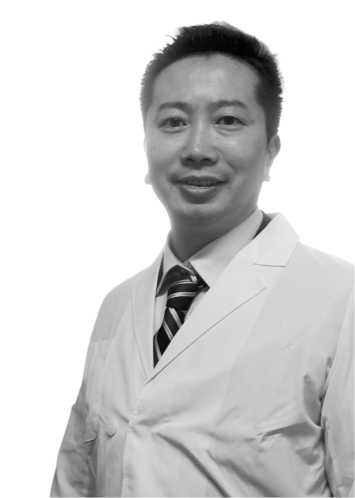
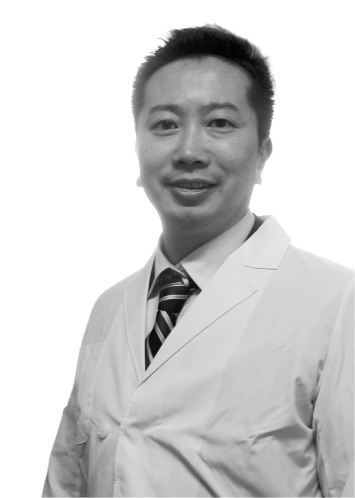
fixbug UI

diff --git a/wp-content/themes/ludoa/assets/css/wishes.css b/wp-content/themes/ludoa/assets/css/wishes.css
@@ -109,10 +109,10 @@
   background-color: var(--color-navy);
   color: var(--color-white);
   font-family: var(--font-serif);
-  font-size: 14px;
+  font-size: 23px;
   font-weight: 700;
-  width: 48px;
-  height: 48px;
+  width: 70px;
+  height: 70px;
   border-radius: 50%;
   position: absolute;
   top: 0;
@@ -128,7 +128,6 @@
 .wish-card__text {
   font-family: var(--font-sans);
   font-size: 13px;
-  font-weight: 700;
   color: var(--color-navy);
   line-height: 1.4;
   margin: 0;
@@ -393,7 +392,7 @@
   }
 
   .wishes__text p {
-    font-size: 16px;
+    font-size: 20px;
   }
 
   /* 3 Cards row on PC */
@@ -405,7 +404,7 @@
   }
 
   .wish-card {
-    padding: 36px 12px 20px;
+    padding: 50px 12px 20px;
   }
 
   .wish-card:first-child {
@@ -415,14 +414,9 @@
     max-width: none;
   }
 
-
-
-  .wish-card__text {
-    font-size: 14px;
-  }
-
-  .wishes__note {
-    font-size: 15px;
+  .wish-card__text,
+  .wishes__note  {
+    font-size: 20px;
   }
 
   /* CTA Button PC Position & Sticky behavior */

diff --git a/wp-content/themes/ludoa/assets/css/program.css b/wp-content/themes/ludoa/assets/css/program.css
@@ -228,7 +228,7 @@
 .fields__badge {
   display: inline-block;
   font-family: var(--font-serif);
-  font-size: 12px;
+  font-size: 15px;
   font-weight: 700;
   color: var(--color-navy-deep);
   background: linear-gradient(90deg, #996213 0%, #e7cd59 55%, #996213 100%);
@@ -444,12 +444,9 @@
     height: 587px;
   }
 
-  .fields__title {
-    font-size: 38px;
-  }
-
-  .fields__title span {
-    font-size: 42px;
+  .fields__title,
+  .fields__title span  {
+    font-size: 36px;
   }
 
   .fields__divider {
@@ -462,7 +459,7 @@
   }
 
   .fields__desc p {
-    font-size: 16px;
+    font-size: 20px;
   }
 
   .fields__grid {
@@ -483,7 +480,7 @@
   }
 
   .field-card__label-line {
-    font-size: 16px;
+    font-size: 20px;
     padding: 8px 16px;
   }
 
@@ -500,6 +497,6 @@
   }
 
   .field-card__link {
-    font-size: 14px;
+    font-size: 20px;
   }
 }

diff --git a/wp-content/themes/ludoa/assets/css/supervision.css b/wp-content/themes/ludoa/assets/css/supervision.css
@@ -411,11 +411,11 @@
   .supervision__desc {
     text-align: left;
     margin-top: 40px;
-    max-width: 760px;
+    max-width: 800px;
   }
 
   .supervision__desc p {
-    font-size: 18px;
+    font-size: 20px;
     line-height: 2;
   }
 
@@ -495,12 +495,12 @@
   }
 
   .member-card__name {
-    font-size: 22px; /* Tương ứng ~28.7px khi active scale(1.307) */
+    font-size: 25px; /* Tương ứng ~28.7px khi active scale(1.307) */
     margin-bottom: 12px;
   }
 
   .member-card__title {
-    font-size: 11px; /* Tương ứng ~14.4px khi active scale(1.307) */
+    font-size: 16px; /* Tương ứng ~14.4px khi active scale(1.307) */
     line-height: 1.6;
   }
 
@@ -521,6 +521,6 @@
   .supervision__notice {
     text-align: right;
     margin: 0;
-    font-size: 14px;
+    font-size: 18px;
   }
 }

diff --git a/wp-content/themes/ludoa/assets/css/hero.css b/wp-content/themes/ludoa/assets/css/hero.css
@@ -247,13 +247,13 @@
     left: 40px;
   }
   .hero__title-top {
-    font-size: 42px;
+    font-size: 43px;
   }
   .hero__title-of {
     font-size: 30px;
   }
   .hero__title-main {
-    font-size: 73px;
+    font-size: 74px;
   }
   .hero__tag {
     margin-top: 24px;
@@ -291,7 +291,7 @@
     height: 90px;
   }
   .hero__scroll-text {
-    font-size: 13px;
+    font-size: 15px;
   }
 }
 

diff --git a/wp-content/themes/ludoa/assets/css/header.css b/wp-content/themes/ludoa/assets/css/header.css
@@ -30,7 +30,7 @@
 /* ---- Logo (chữ) ---- */
 .logo {
   font-family: var(--font-serif);
-  font-weight: 700;
+  font-weight: 600;
   font-size: 14px;
   color: var(--color-text);
   white-space: nowrap;
@@ -294,7 +294,7 @@
 /* ---- 1440px (đúng thiết kế gốc) ---- */
 @media (min-width: 1440px) {
   .logo {
-    font-size: 22px;
+    font-size: 25px;
   }
   .nav-pc__list {
     gap: 38px;

diff --git a/html_asset/index.html b/html_asset/index.html
@@ -623,7 +623,7 @@
         <div class="wishes__panel wishes__panel--text wishes__panel--4 reveal-right">
           <h2 class="wishes__title" data-i18n="wishes.title2">健康は一生の付き合い</h2>
           <div class="wishes__text">
-            <p data-i18n="wishes.text2_p1">これからもずっと動ける体と笑顔の毎日を。<br />健康は一度手に入れたら終わりではありません。</p>
+            <p data-i18n="wishes.text2_p1">これからもずっと動ける体と笑顔の毎日を。<br />健康は、一度手に入れたら終わりではありません。</p>
             <p data-i18n="wishes.text2_p2">大切なのは、今の自分の状態を「知ること」。<br />そして、無理のない範囲で新しい知恵を「取り入れること」。</p>
             <p data-i18n="wishes.text2_p3">この積み重ねが、5年後、10年後のあなたを支える<br />大きな安心に変わります。</p>
           </div>

diff --git a/wp-content/themes/ludoa/front-page.php b/wp-content/themes/ludoa/front-page.php
@@ -511,7 +511,7 @@ get_header();
         <div class="wishes__panel wishes__panel--text wishes__panel--4 reveal-right">
           <h2 class="wishes__title" data-i18n="wishes.title2">健康は一生の付き合い</h2>
           <div class="wishes__text">
-            <p data-i18n="wishes.text2_p1">これからもずっと動ける体と笑顔の毎日を。<br />健康は一度手に入れたら終わりではありません。</p>
+            <p data-i18n="wishes.text2_p1">これからもずっと動ける体と笑顔の毎日を。<br />健康は、一度手に入れたら終わりではありません。</p>
             <p data-i18n="wishes.text2_p2">大切なのは、今の自分の状態を「知ること」。<br />そして、無理のない範囲で新しい知恵を「取り入れること」。</p>
             <p data-i18n="wishes.text2_p3">この積み重ねが、5年後、10年後のあなたを支える<br />大きな安心に変わります。</p>
           </div>

diff --git a/wp-content/themes/ludoa/index.php b/wp-content/themes/ludoa/index.php
@@ -511,7 +511,7 @@ get_header();
         <div class="wishes__panel wishes__panel--text wishes__panel--4 reveal-right">
           <h2 class="wishes__title" data-i18n="wishes.title2">健康は一生の付き合い</h2>
           <div class="wishes__text">
-            <p data-i18n="wishes.text2_p1">これからもずっと動ける体と笑顔の毎日を。<br />健康は一度手に入れたら終わりではありません。</p>
+            <p data-i18n="wishes.text2_p1">これからもずっと動ける体と笑顔の毎日を。<br />健康は、一度手に入れたら終わりではありません。</p>
             <p data-i18n="wishes.text2_p2">大切なのは、今の自分の状態を「知ること」。<br />そして、無理のない範囲で新しい知恵を「取り入れること」。</p>
             <p data-i18n="wishes.text2_p3">この積み重ねが、5年後、10年後のあなたを支える<br />大きな安心に変わります。</p>
           </div>